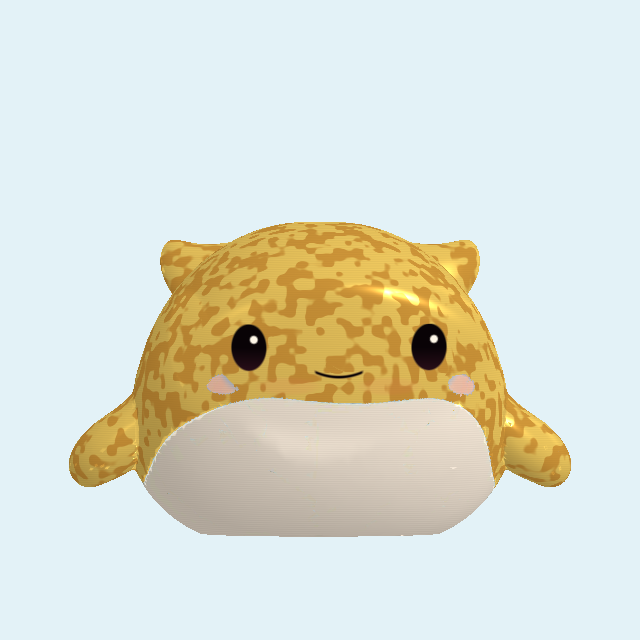
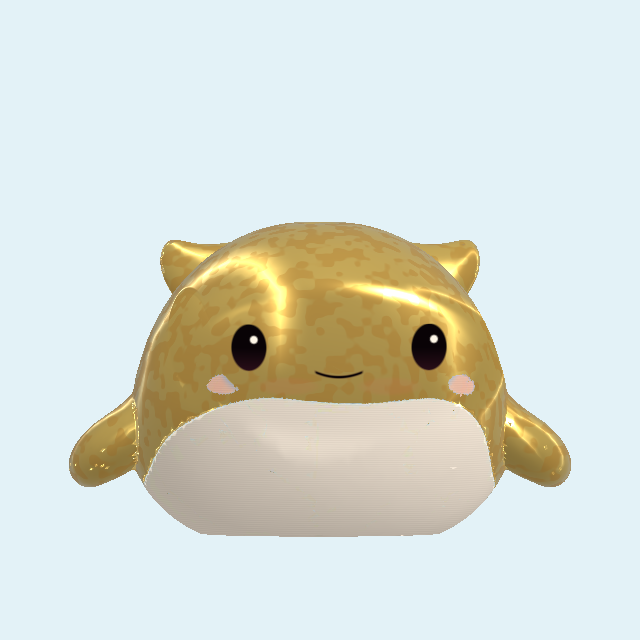
Polish Wally gold finishes with stronger reflections

Changed region(s): [[0.0938, 0.3438, 0.9062, 0.7812]]

diff --git a/docs/wally-pilot-review/index.html b/docs/wally-pilot-review/index.html
@@ -1,5 +1,5 @@
 <!doctype html><html lang="en"><meta charset="utf-8"><meta name="viewport" content="width=device-width,initial-scale=1"><title>Wally · 15-toy pilot</title><style>
 *{box-sizing:border-box}body{margin:0;background:#f3f5f6;color:#203041;font:16px/1.5 system-ui}main{max-width:1240px;margin:auto;padding:42px 24px}h1{font-size:clamp(30px,5vw,50px);margin:0}h2{margin:32px 0 12px}.intro{max-width:850px;color:#526273}.tag{font-size:12px;font-weight:750;letter-spacing:.12em;text-transform:uppercase}section.grid{display:grid;grid-template-columns:repeat(auto-fit,minmax(210px,1fr));gap:16px}article{border:1px solid #dbe2e7;background:white;border-radius:20px;overflow:hidden}article img{width:100%;display:block;cursor:zoom-in}article div{padding:16px}h3{margin:0 0 4px;font-size:20px}small{color:#657386}.Rare{border-color:#c59833}.Epic{border-color:#91c4df}.Secret{border-color:#634b9c;background:#1d2637;color:white}.Secret small{color:#cad5e9}button{font:inherit;cursor:pointer;border:1px solid #acbac6;border-radius:10px;padding:9px 16px;background:white;color:#203041}.notice{padding:18px 22px;background:#e5eef5;border-radius:16px;margin:24px 0}table{border-collapse:collapse;width:100%;max-width:680px}td,th{text-align:left;padding:10px;border-bottom:1px solid #d4dce3}.detail{display:grid;grid-template-columns:repeat(auto-fit,minmax(230px,1fr));gap:16px}.detail img{width:100%;border-radius:18px}figure{margin:0}dialog{border:0;border-radius:20px;max-width:min(92vw,800px);padding:16px}dialog::backdrop{background:#102030b3}dialog img{width:100%;display:block}.pulse{position:relative;max-width:500px}.pulse img+img{position:absolute;inset:0;animation:pulse 3s ease-in-out infinite alternate}@keyframes pulse{from{opacity:0}to{opacity:1}}@media(prefers-reduced-motion:reduce){.pulse img+img{animation:none;opacity:0}}
-</style><main><div class="tag">Native Unity material review · October 22 · surface revision 2</div><h1>Wally · fifteen little ocean treasures</h1><p class="intro">Nine Common, three gold Rare, two Epic, one molten Secret. These are captures of the approved Wally model using the actual runtime materials. Click a toy to inspect. Molten and Diamond have been refined against your texture references: rough bevelled stone around recessed cyan fissures, and larger, higher-contrast triangular crystal cuts.</p><div class="notice"><strong>Your existing toys stay yours.</strong> All ten original IDs are retained. Deep Sea Glow becomes Epic; Sunken Gold becomes Rare. Molten Abyss is the new Secret. No save migration, automatic gifts, paid draws or live odds changes in this pilot.</div><div id="lineup"></div><h2>Surface revision · before and after</h2><p class="intro">Your references guided these two native shader changes. Molten has rough plate relief and lit fissures; Diamond has broad hard-normal cuts and stronger light/dark reflections.</p><div class="detail"><figure><img src="previous/wally.molten-abyss.png" alt="Previous molten"><figcaption>Molten · previous</figcaption></figure><figure><img src="images/wally.molten-abyss.png?v=2" alt="Refined rough molten"><figcaption>Molten · rough plates and recessed light</figcaption></figure><figure><img src="previous/wally.diamond-frost.png" alt="Previous diamond"><figcaption>Diamond · previous</figcaption></figure><figure><img src="images/wally.diamond-frost.png?v=2" alt="Refined diamond cuts"><figcaption>Diamond · pronounced cuts</figcaption></figure></div><h2>Reflective finishes at another angle</h2><p class="intro">Gold leaf, rose gold, faceted frost and obsidian. These are separate native renders, not repainted thumbnails.</p><div class="detail"><img loading="lazy" src="images/wally.treasure-leaf-angle.png" alt="treasure-leaf at 35 degrees"><img loading="lazy" src="images/wally.rose-gold-shell-angle.png" alt="rose-gold-shell at 35 degrees"><img loading="lazy" src="images/wally.diamond-frost-angle.png" alt="diamond-frost at 35 degrees"><img loading="lazy" src="images/wally.molten-abyss-angle.png" alt="molten-abyss at 35 degrees"></div><h2>Molten light</h2><p class="intro">Two captured luminance endpoints blended here to preview the subtle pulse. The runtime animates only brightness; the veins stay attached to the body. Calm mode holds brightness still. The face and belly remain protected. Rough plates use surface-normal relief; the silhouette is unchanged.</p><div class="pulse"><img src="images/molten-low.png?v=2" alt="Molten low pulse"><img src="images/molten-high.png?v=2" alt="Molten high pulse"></div><h2>Proposed odds · review only</h2><p class="intro">Claude proposed Rare 15% and Epic 6%, with the Secret about 1 in 72. This table shows that proposal exactly; it is not an approved or live draw pool.</p><table><thead><tr><th>Tier</th><th>Members</th><th>Tier probability</th><th>Per member, equal split</th></tr></thead><tbody><tr><td>Common</td><td>9</td><td>77.6111%</td><td>8.6235%</td></tr><tr><td>Rare · gold</td><td>3</td><td>15%</td><td>5%</td></tr><tr><td>Epic</td><td>2</td><td>6%</td><td>3%</td></tr><tr><td>Secret · molten</td><td>1</td><td>1.3889%</td><td>1 in 72</td></tr></tbody></table><p class="intro">Completion assistance still needs a final pool policy: boosting missing Common toys within the Common tier would keep Secret probability fixed. The backend timer and bank limits remain independent of rarity.</p><h2>Checked and pending</h2><p class="intro">Pinned Unity 6000.6.5f1: eight focused Wally tests passed, including all fifteen materials, eight expressions, five reactions, Calm, stage art and the existing test grant. Portable catalog/save checks passed. Phone appearance, Claude’s tier badge/15-slot layout and production draw configuration remain pending.</p><dialog id="zoom"><button onclick="this.closest('dialog').close()">Close</button><img alt="Enlarged native render"></dialog></main><script>
-const rows=[{"id": "wally.clear-jelly", "name": "Lagoon Jelly", "tier": "Common", "detail": "Clear turquoise gel"}, {"id": "wally.pearl-jelly", "name": "Moon Pearl", "tier": "Common", "detail": "Lavender pearl jelly"}, {"id": "wally.confetti-gel", "name": "Coral Glitter", "tier": "Common", "detail": "Pink gel with gold flecks"}, {"id": "wally.mochi-foam", "name": "Seafoam Mochi", "tier": "Common", "detail": "Soft mint foam"}, {"id": "wally.velvet-flock", "name": "Lavender Flock", "tier": "Common", "detail": "Short purple pile"}, {"id": "wally.boucle-plush", "name": "Cloud Plush", "tier": "Common", "detail": "Peach curled plush"}, {"id": "wally.matte-vinyl", "name": "Reef Matte", "tier": "Common", "detail": "Teal matte vinyl"}, {"id": "wally.gloss-vinyl", "name": "Classic Blue", "tier": "Common", "detail": "Approved blue gloss"}, {"id": "wally.kelp-mint", "name": "Kelp Mint", "tier": "Common", "detail": "New \u00b7 green satin matte"}, {"id": "wally.coated-metallic", "name": "Sunken Gold", "tier": "Rare", "detail": "Existing ID \u00b7 moves to Rare"}, {"id": "wally.treasure-leaf", "name": "Treasure Leaf", "tier": "Rare", "detail": "New \u00b7 irregular gold leaf"}, {"id": "wally.rose-gold-shell", "name": "Rose Gold Shell", "tier": "Rare", "detail": "New \u00b7 polished rose gold"}, {"id": "wally.glow-jelly", "name": "Deep Sea Glow", "tier": "Epic", "detail": "Existing ID \u00b7 moves to Epic"}, {"id": "wally.diamond-frost", "name": "Diamond Frost", "tier": "Epic", "detail": "New \u00b7 broad cut-diamond reflections"}, {"id": "wally.molten-abyss", "name": "Molten Abyss", "tier": "Secret", "detail": "New \u00b7 rough stone plates with recessed cyan fissures"}];const root=document.querySelector('#lineup');for(const tier of ['Common','Rare','Epic','Secret']){const h=document.createElement('h2');h.textContent=tier+' · '+rows.filter(x=>x.tier===tier).length;root.append(h);const grid=document.createElement('section');grid.className='grid';root.append(grid);for(const x of rows.filter(x=>x.tier===tier)){const a=document.createElement('article');a.className=tier;const img=document.createElement('img');img.src='images/'+x.id+'.png?v=2';img.alt=x.name;img.loading='lazy';img.onclick=()=>{const d=document.querySelector('#zoom');d.querySelector('img').src=img.src;d.querySelector('img').alt=x.name;d.showModal()};const info=document.createElement('div');const tag=document.createElement('span');tag.className='tag';tag.textContent=tier;const name=document.createElement('h3');name.textContent=x.name;const detail=document.createElement('small');detail.textContent=x.detail;info.append(tag,name,detail);a.append(img,info);grid.append(a)}}document.querySelector('#zoom').onclick=e=>{if(e.target===e.currentTarget)e.currentTarget.close()};
+</style><main><div class="tag">Native Unity material review · October 22 · surface revision 3 · polished gold</div><h1>Wally · fifteen little ocean treasures</h1><p class="intro">Nine Common, three gold Rare, two Epic, one molten Secret. These are captures of the approved Wally model using the actual runtime materials. Click a toy to inspect. Molten and Diamond have been refined against your texture references: rough bevelled stone around recessed cyan fissures, and larger, higher-contrast triangular crystal cuts.</p><div class="notice"><strong>Your existing toys stay yours.</strong> All ten original IDs are retained. Deep Sea Glow becomes Epic; Sunken Gold becomes Rare. Molten Abyss is the new Secret. No save migration, automatic gifts, paid draws or live odds changes in this pilot.</div><div id="lineup"></div><h2>Gold · stronger reflections</h2><p class="intro">Sunken Gold, Treasure Leaf and Rose Gold Shell now share a brighter polished-metal reflection model. Their pigment, leaf detail and original face/belly remain distinct. Compare the earlier material with the new native render.</p><h3>Sunken Gold</h3><div class="detail"><figure><img loading="lazy" src="previous-gold/wally.coated-metallic.png" alt="Previous Sunken Gold"><figcaption>Previous</figcaption></figure><figure><img loading="lazy" src="images/wally.coated-metallic.png?v=3" alt="Polished Sunken Gold"><figcaption>Polished · stronger reflections</figcaption></figure></div><h3>Treasure Leaf</h3><div class="detail"><figure><img loading="lazy" src="previous-gold/wally.treasure-leaf.png" alt="Previous Treasure Leaf"><figcaption>Previous</figcaption></figure><figure><img loading="lazy" src="images/wally.treasure-leaf.png?v=3" alt="Polished Treasure Leaf"><figcaption>Polished · stronger reflections</figcaption></figure></div><h3>Rose Gold Shell</h3><div class="detail"><figure><img loading="lazy" src="previous-gold/wally.rose-gold-shell.png" alt="Previous Rose Gold Shell"><figcaption>Previous</figcaption></figure><figure><img loading="lazy" src="images/wally.rose-gold-shell.png?v=3" alt="Polished Rose Gold Shell"><figcaption>Polished · stronger reflections</figcaption></figure></div><h2>Surface revision · before and after</h2><p class="intro">Your references guided these two native shader changes. Molten has rough plate relief and lit fissures; Diamond has broad hard-normal cuts and stronger light/dark reflections.</p><div class="detail"><figure><img src="previous/wally.molten-abyss.png" alt="Previous molten"><figcaption>Molten · previous</figcaption></figure><figure><img src="images/wally.molten-abyss.png?v=3" alt="Refined rough molten"><figcaption>Molten · rough plates and recessed light</figcaption></figure><figure><img src="previous/wally.diamond-frost.png" alt="Previous diamond"><figcaption>Diamond · previous</figcaption></figure><figure><img src="images/wally.diamond-frost.png?v=3" alt="Refined diamond cuts"><figcaption>Diamond · pronounced cuts</figcaption></figure></div><h2>Reflective finishes at another angle</h2><p class="intro">Gold leaf, rose gold, faceted frost and obsidian. These are separate native renders, not repainted thumbnails.</p><div class="detail"><img loading="lazy" src="images/wally.coated-metallic-angle.png?v=3" alt="Sunken Gold at 35 degrees"><img loading="lazy" src="images/wally.treasure-leaf-angle.png" alt="treasure-leaf at 35 degrees"><img loading="lazy" src="images/wally.rose-gold-shell-angle.png" alt="rose-gold-shell at 35 degrees"><img loading="lazy" src="images/wally.diamond-frost-angle.png" alt="diamond-frost at 35 degrees"><img loading="lazy" src="images/wally.molten-abyss-angle.png" alt="molten-abyss at 35 degrees"></div><h2>Molten light</h2><p class="intro">Two captured luminance endpoints blended here to preview the subtle pulse. The runtime animates only brightness; the veins stay attached to the body. Calm mode holds brightness still. The face and belly remain protected. Rough plates use surface-normal relief; the silhouette is unchanged.</p><div class="pulse"><img src="images/molten-low.png?v=3" alt="Molten low pulse"><img src="images/molten-high.png?v=3" alt="Molten high pulse"></div><h2>Proposed odds · review only</h2><p class="intro">Claude proposed Rare 15% and Epic 6%, with the Secret about 1 in 72. This table shows that proposal exactly; it is not an approved or live draw pool.</p><table><thead><tr><th>Tier</th><th>Members</th><th>Tier probability</th><th>Per member, equal split</th></tr></thead><tbody><tr><td>Common</td><td>9</td><td>77.6111%</td><td>8.6235%</td></tr><tr><td>Rare · gold</td><td>3</td><td>15%</td><td>5%</td></tr><tr><td>Epic</td><td>2</td><td>6%</td><td>3%</td></tr><tr><td>Secret · molten</td><td>1</td><td>1.3889%</td><td>1 in 72</td></tr></tbody></table><p class="intro">Completion assistance still needs a final pool policy: boosting missing Common toys within the Common tier would keep Secret probability fixed. The backend timer and bank limits remain independent of rarity.</p><h2>Checked and pending</h2><p class="intro">Pinned Unity 6000.6.5f1: eight focused Wally tests passed, including all fifteen materials, eight expressions, five reactions, Calm, stage art and the existing test grant. Portable catalog/save checks passed. Phone appearance, Claude’s tier badge/15-slot layout and production draw configuration remain pending.</p><dialog id="zoom"><button onclick="this.closest('dialog').close()">Close</button><img alt="Enlarged native render"></dialog></main><script>
+const rows=[{"id": "wally.clear-jelly", "name": "Lagoon Jelly", "tier": "Common", "detail": "Clear turquoise gel"}, {"id": "wally.pearl-jelly", "name": "Moon Pearl", "tier": "Common", "detail": "Lavender pearl jelly"}, {"id": "wally.confetti-gel", "name": "Coral Glitter", "tier": "Common", "detail": "Pink gel with gold flecks"}, {"id": "wally.mochi-foam", "name": "Seafoam Mochi", "tier": "Common", "detail": "Soft mint foam"}, {"id": "wally.velvet-flock", "name": "Lavender Flock", "tier": "Common", "detail": "Short purple pile"}, {"id": "wally.boucle-plush", "name": "Cloud Plush", "tier": "Common", "detail": "Peach curled plush"}, {"id": "wally.matte-vinyl", "name": "Reef Matte", "tier": "Common", "detail": "Teal matte vinyl"}, {"id": "wally.gloss-vinyl", "name": "Classic Blue", "tier": "Common", "detail": "Approved blue gloss"}, {"id": "wally.kelp-mint", "name": "Kelp Mint", "tier": "Common", "detail": "New \u00b7 green satin matte"}, {"id": "wally.coated-metallic", "name": "Sunken Gold", "tier": "Rare", "detail": "Existing ID \u00b7 moves to Rare"}, {"id": "wally.treasure-leaf", "name": "Treasure Leaf", "tier": "Rare", "detail": "New \u00b7 irregular gold leaf"}, {"id": "wally.rose-gold-shell", "name": "Rose Gold Shell", "tier": "Rare", "detail": "New \u00b7 polished rose gold"}, {"id": "wally.glow-jelly", "name": "Deep Sea Glow", "tier": "Epic", "detail": "Existing ID \u00b7 moves to Epic"}, {"id": "wally.diamond-frost", "name": "Diamond Frost", "tier": "Epic", "detail": "New \u00b7 broad cut-diamond reflections"}, {"id": "wally.molten-abyss", "name": "Molten Abyss", "tier": "Secret", "detail": "New \u00b7 rough stone plates with recessed cyan fissures"}];const root=document.querySelector('#lineup');for(const tier of ['Common','Rare','Epic','Secret']){const h=document.createElement('h2');h.textContent=tier+' · '+rows.filter(x=>x.tier===tier).length;root.append(h);const grid=document.createElement('section');grid.className='grid';root.append(grid);for(const x of rows.filter(x=>x.tier===tier)){const a=document.createElement('article');a.className=tier;const img=document.createElement('img');img.src='images/'+x.id+'.png?v=3';img.alt=x.name;img.loading='lazy';img.onclick=()=>{const d=document.querySelector('#zoom');d.querySelector('img').src=img.src;d.querySelector('img').alt=x.name;d.showModal()};const info=document.createElement('div');const tag=document.createElement('span');tag.className='tag';tag.textContent=tier;const name=document.createElement('h3');name.textContent=x.name;const detail=document.createElement('small');detail.textContent=x.detail;info.append(tag,name,detail);a.append(img,info);grid.append(a)}}document.querySelector('#zoom').onclick=e=>{if(e.target===e.currentTarget)e.currentTarget.close()};
 </script></html>

diff --git a/Assets/Pockle/Editor/WallyPilotCapture.cs b/Assets/Pockle/Editor/WallyPilotCapture.cs
@@ -32,7 +32,7 @@ namespace Pockle.Editor
                     Save(camera,Path.Combine(output,item.Id+".png"));count++;
                 }
                 camera.orthographicSize=1.65f;
-                foreach(var id in new[]{WallyCatalog.LeafId,WallyCatalog.RoseId,WallyCatalog.DiamondId,WallyCatalog.SpecialId})
+                foreach(var id in new[]{"wally.coated-metallic",WallyCatalog.LeafId,WallyCatalog.RoseId,WallyCatalog.DiamondId,WallyCatalog.SpecialId})
                 {
                     toy.TrySetCollectible(id);toy.transform.rotation=Quaternion.Euler(0,35,0);
                     Save(camera,Path.Combine(output,id+"-angle.png"));
@@ -42,7 +42,7 @@ namespace Pockle.Editor
                 toy.BodyRenderer.sharedMaterial.SetFloat("_RarePulse",.86f);Save(camera,Path.Combine(output,"molten-low.png"));
                 toy.BodyRenderer.sharedMaterial.SetFloat("_RarePulse",1.14f);Save(camera,Path.Combine(output,"molten-high.png"));
                 if(count!=15)throw new Exception("Expected15 Wally members");
-                Debug.Log("WALLY_PILOT_CAPTURE_OK: 15 finishes, four reflective angle views, two pulse endpoints");
+                Debug.Log("WALLY_PILOT_CAPTURE_OK: 15 finishes, five reflective angle views, two pulse endpoints");
             }
             finally{UnityEngine.Object.DestroyImmediate(obj);UnityEngine.Object.DestroyImmediate(view);}
         }

diff --git a/Assets/Pockle/Runtime/WallyFinishMaterial.cs b/Assets/Pockle/Runtime/WallyFinishMaterial.cs
@@ -35,6 +35,7 @@ namespace Pockle.Runtime
                 case WallyCatalog.DiamondId:gloss=.97f;m.SetFloat("_Diamond",1);m.SetFloat("_Crystal",1);m.SetFloat("_Iridescence",.18f);break;
                 case WallyCatalog.SpecialId:gloss=.24f;m.SetFloat("_Metallic",.05f);m.SetFloat("_Molten",1);m.SetFloat("_RarePulse",1);break;
             }
+            if(toy.Tier==ToyTier.Rare) {m.SetFloat("_GoldReflect",1);gloss=id==WallyCatalog.LeafId?.96f:1;}
             m.SetFloat("_Gloss",gloss);m.SetFloat("_Opacity",opacity);
             m.SetFloat("_TintStrength",toy.FinishId=="gloss-vinyl"?0:1);
             m.SetFloat("_WinterPalette",1); // Same phone-scale pile and foam detail as the approved winter toys.

diff --git a/docs/handoffs/codex.md b/docs/handoffs/codex.md
@@ -617,3 +617,12 @@ Owner supplied two visual references: rough dark raised stone plates with broad 
 Owner references guided this Wally-only revision on codex/wally-rarity-pilot (dependency f583d08). Molten now has coarser plateau/bevel/grain height-derived lighting normals, dark recessed walls and broader irregular cyan-lit fissures; removed the magenta gradient, reduced base recipe gloss/metal. This is surface shading, not mesh displacement; original silhouette, cream belly and animated face retained. Diamond now has larger sheared triangular facets with independent object-attached normals, stronger light/dark contrast, environment reflection/refraction and broad/sharp glints. IDs/tiers/odds/savev4 unchanged. Capture helper logs actual shader compiler messages and fits the whole tail in angle views.
 Pinned Unity6000.6.5f1 final Wally suite8/8 passed (/private/tmp/pockle-wally-refinement-tests-fixed.xml/.log). Full portable suite passed, source253C#/816GUIDs0failures and whitespace/JS syntax passed. Final21 native shader-error-checked captures refreshed; enlarged fronts/angles visually inspected. Pixel comparison confirms all13 other front renders exactly unchanged. Review docs/wally-pilot-review/index.html now has before/after comparisons, wider angle views, updated pulse endpoints, SHAmanifest and surface-revision-02.jpg. Scoped owner copy-back checked three edited source files against f583d08 first; active Claude UI/source and phone/save untouched. Reference images remain outside Git; descriptions drive procedural shader work.
 Verification caveat/recovery: initial cache runs failed because assembly definitions/editor setup helper were absent; restored verified files. First focused test run then passed6/8 with missing stage/Pip dependencies; seeded the complete verified Assets tree into the native cache and reran8/8 successfully. Initial shader identifier triangle was corrected to facetHalf before final render. No owner ProjectSettings/manifest/UI changes. No Android build/phone performance or visual acceptance, hosted CI, live reward configuration or UI052 integration claimed. Claude's October22 UI-ready contract was read; that integration remains separate.
+
+
+## October22 — Wally gold reflectivity refinement claimed (UX-029/031)
+Owner requests shinier/more reflective gold toys after molten/diamond improvement. Continue codex/wally-rarity-pilot from4d8d9d8 in isolated checkout. Scope only SunkenGold/TreasureLeaf/RoseGold material reflectivity, Wally shader and native review/validation. Preserve three identities and leaf texture; no other finish, tier, reward, save, UI or phone changes. Shared handoffs read and main fetched. Render actual model and inspect front/angle before copy-back.
+
+
+## October22 — Wally polished gold revision verified
+Owner requested stronger shine/reflections for the three golds. On codex/wally-rarity-pilot from4d8d9d8, WallyFinishMaterial enables GoldReflect only for the three Wally Rare entries: SunkenGold, TreasureLeaf, RoseGoldShell. Shader replaces dull diffuse shading with brighter gold/pink body fill, stronger environment Fresnel reflection and broad/narrow reflected studio panels; leaf gaps remain textured with reduced reflection damping. First preview was too dark without environment illumination; balanced studio-room fill restored bright gold pigment while retaining contrast. Other finish IDs/tiers/pools/save/face/handling untouched. Capture includes SunkenGold angle now;22 native captures total. Review index.html?revision=3 includes each gold's before/after and gold-revision-03.jpg.
+Pinned Unity6000.6.5f1 focused Wally suite8/8 passed (/private/tmp/pockle-wally-gold-tests.xml/.log). Full portable checks, source253C#/816GUIDs/zero failures, whitespace and review JS/link checks passed. Front/angle renders inspected for allthree golds. Other12 fronts numerically unchanged except negligible1-LSB rounding (maximum mean RGB difference0.000008952/255); no visual rework. Capture SHAmanifest updated. Guarded owner copy-back compared the3source files with4d8d9d8 before copying; active Claude HUD/files and phone/account save untouched. No Android build/phone update/performance measurement or owner acceptance claimed; no live odds or inventory changes.

diff --git a/docs/VALIDATION.md b/docs/VALIDATION.md
@@ -603,3 +603,8 @@ Native capture WallyPilotCapture rendered15 fronts, four angle views and two mol
 Owner references guided this Wally-only revision on codex/wally-rarity-pilot (dependency f583d08). Molten now has coarser plateau/bevel/grain height-derived lighting normals, dark recessed walls and broader irregular cyan-lit fissures; removed the magenta gradient, reduced base recipe gloss/metal. This is surface shading, not mesh displacement; original silhouette, cream belly and animated face retained. Diamond now has larger sheared triangular facets with independent object-attached normals, stronger light/dark contrast, environment reflection/refraction and broad/sharp glints. IDs/tiers/odds/savev4 unchanged. Capture helper logs actual shader compiler messages and fits the whole tail in angle views.
 Pinned Unity6000.6.5f1 final Wally suite8/8 passed (/private/tmp/pockle-wally-refinement-tests-fixed.xml/.log). Full portable suite passed, source253C#/816GUIDs0failures and whitespace/JS syntax passed. Final21 native shader-error-checked captures refreshed; enlarged fronts/angles visually inspected. Pixel comparison confirms all13 other front renders exactly unchanged. Review docs/wally-pilot-review/index.html now has before/after comparisons, wider angle views, updated pulse endpoints, SHAmanifest and surface-revision-02.jpg. Scoped owner copy-back checked three edited source files against f583d08 first; active Claude UI/source and phone/save untouched. Reference images remain outside Git; descriptions drive procedural shader work.
 Verification caveat/recovery: initial cache runs failed because assembly definitions/editor setup helper were absent; restored verified files. First focused test run then passed6/8 with missing stage/Pip dependencies; seeded the complete verified Assets tree into the native cache and reran8/8 successfully. Initial shader identifier triangle was corrected to facetHalf before final render. No owner ProjectSettings/manifest/UI changes. No Android build/phone performance or visual acceptance, hosted CI, live reward configuration or UI052 integration claimed. Claude's October22 UI-ready contract was read; that integration remains separate.
+
+
+## October22 — Wally polished gold revision verified
+Owner requested stronger shine/reflections for the three golds. On codex/wally-rarity-pilot from4d8d9d8, WallyFinishMaterial enables GoldReflect only for the three Wally Rare entries: SunkenGold, TreasureLeaf, RoseGoldShell. Shader replaces dull diffuse shading with brighter gold/pink body fill, stronger environment Fresnel reflection and broad/narrow reflected studio panels; leaf gaps remain textured with reduced reflection damping. First preview was too dark without environment illumination; balanced studio-room fill restored bright gold pigment while retaining contrast. Other finish IDs/tiers/pools/save/face/handling untouched. Capture includes SunkenGold angle now;22 native captures total. Review index.html?revision=3 includes each gold's before/after and gold-revision-03.jpg.
+Pinned Unity6000.6.5f1 focused Wally suite8/8 passed (/private/tmp/pockle-wally-gold-tests.xml/.log). Full portable checks, source253C#/816GUIDs/zero failures, whitespace and review JS/link checks passed. Front/angle renders inspected for allthree golds. Other12 fronts numerically unchanged except negligible1-LSB rounding (maximum mean RGB difference0.000008952/255); no visual rework. Capture SHAmanifest updated. Guarded owner copy-back compared the3source files with4d8d9d8 before copying; active Claude HUD/files and phone/account save untouched. No Android build/phone update/performance measurement or owner acceptance claimed; no live odds or inventory changes.

diff --git a/docs/ARCHITECTURE.md b/docs/ARCHITECTURE.md
@@ -187,3 +187,6 @@ WallyFinishMaterial and the existing Built-in shader add irregular leaf, rose go
 
 
 October22 Wally surface refinement: the molten shader derives bevel/grain normals from local-space Voronoi plate height and fragment derivatives, with a broader cyan luminous recess. Diamond uses coarse triangular normals with distinct reflected/refracted environment rays and glints. These effects are uniform branches for the two pilot materials; no mesh topology, body silhouette, face control, handling, tier or save changes. Thirteen other front renders were pixel-identical in native comparison. Review docs/wally-pilot-review/index.html.
+
+
+October22 Wally golds: a GoldReflect branch, enabled for the three Rare Wally variants only, strengthens tinted environment Fresnel reflection and broad/strip studio highlights while retaining enough room fill for bright gold/rose pigment. Treasure Leaf keeps its irregular foil pattern and a less attenuated reflection layer. Other materials and handling remain separate. Native gold review: docs/wally-pilot-review/index.html?revision=3.
